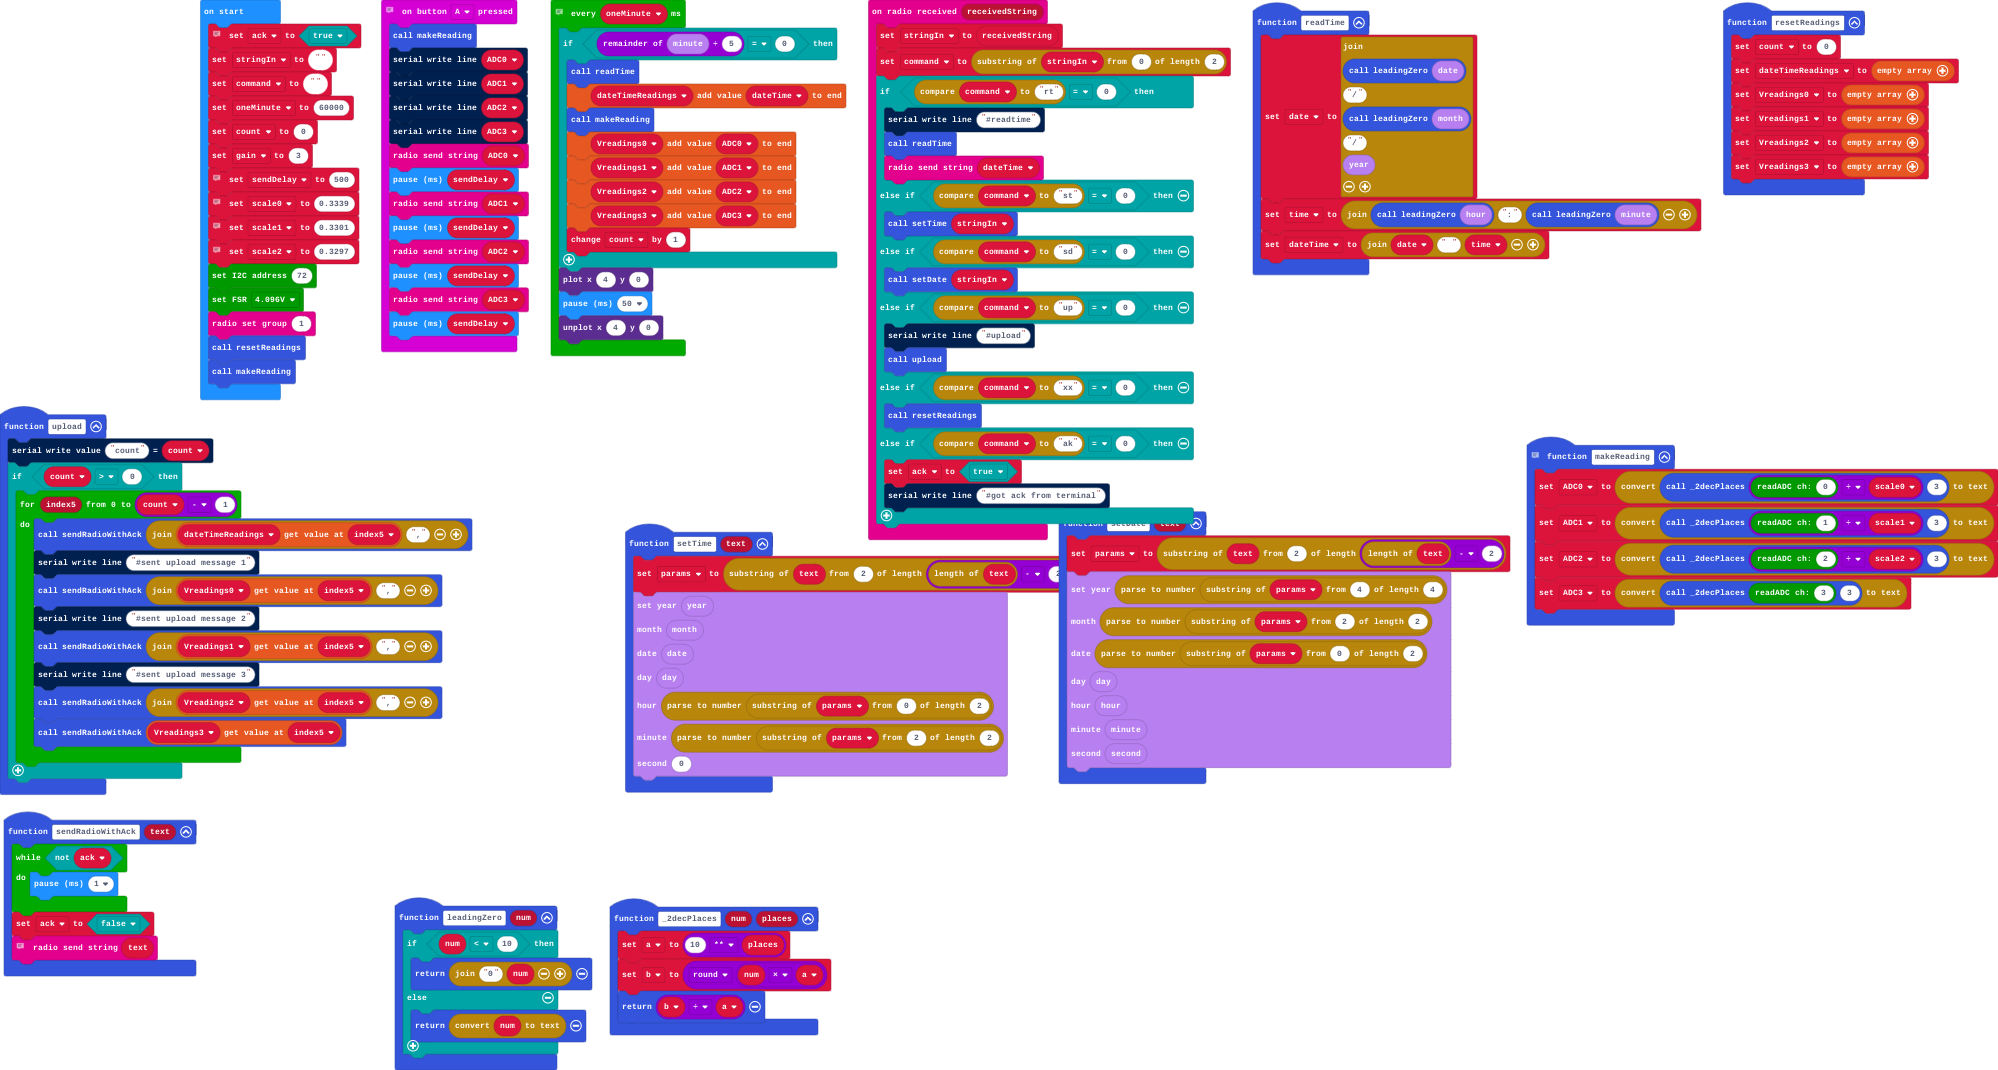
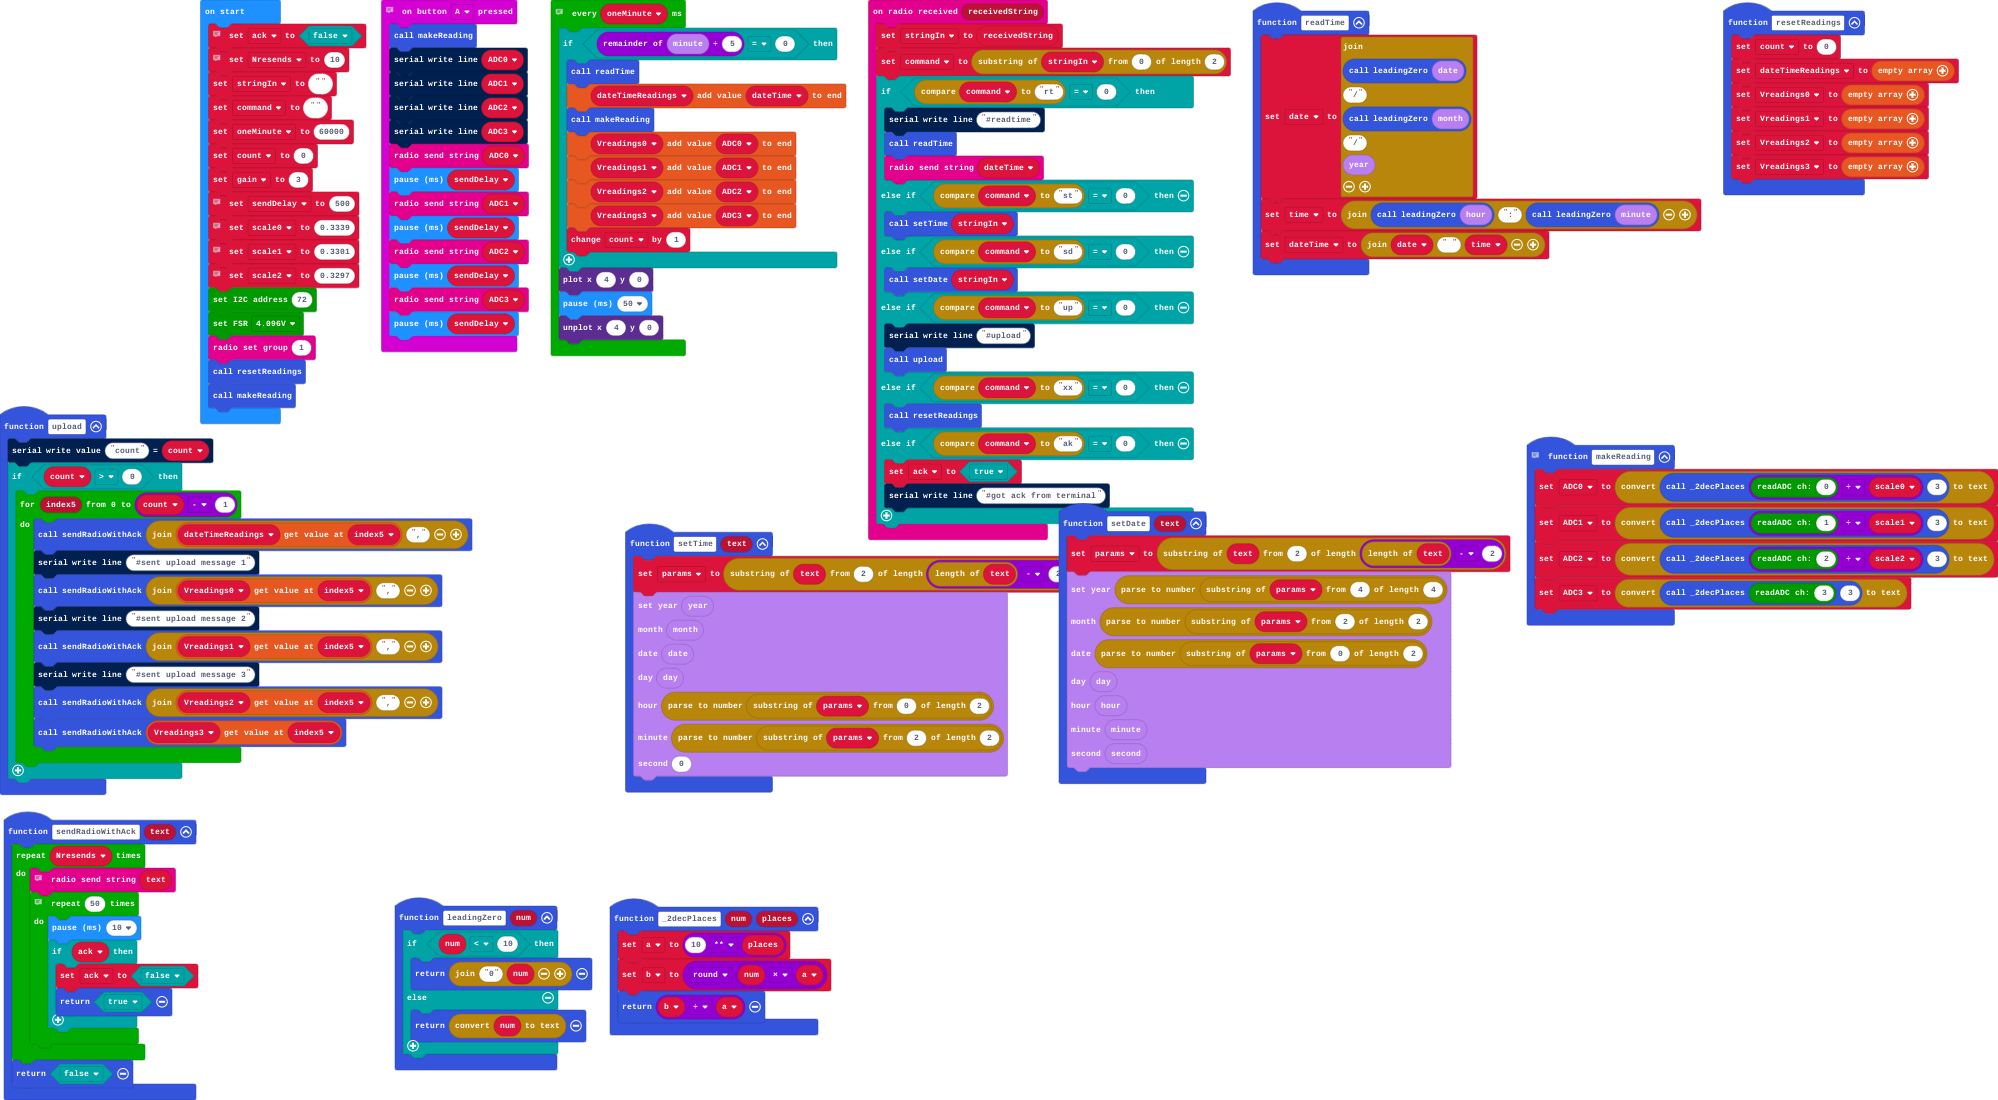
New ARQ function

Changed region(s): [[0.0, 0.0, 1.0, 1.0], [0.1862, 0.8019, 0.4344, 1.0]]

diff --git a/main.ts b/main.ts
@@ -47,12 +47,19 @@ input.onButtonPressed(Button.A, function () {
     basic.pause(sendDelay)
 })
 function sendRadioWithAck (text: string) {
-    while (!(ack)) {
-        basic.pause(1)
+    for (let index = 0; index < Nresends; index++) {
+        // Send then wait for ack 
+        radio.sendString(text)
+        // Allow 500 ms for ACK
+        for (let index = 0; index < 50; index++) {
+            basic.pause(10)
+            if (ack) {
+                ack = false
+                return true
+            }
+        }
     }
-    ack = false
-    // Send then wait for ack before sending next
-    radio.sendString(text)
+    return false
 }
 function setDate (text: string) {
     params = text.substr(2, text.length - 2)
@@ -136,9 +143,12 @@ let sendDelay = 0
 let count = 0
 let command = ""
 let stringIn = ""
+let Nresends = 0
 let ack = false
 // only upload a string to radio if ack is true
-ack = true
+ack = false
+// number of radio message resends to try
+Nresends = 10
 stringIn = ""
 command = ""
 let oneMinute = 60000
